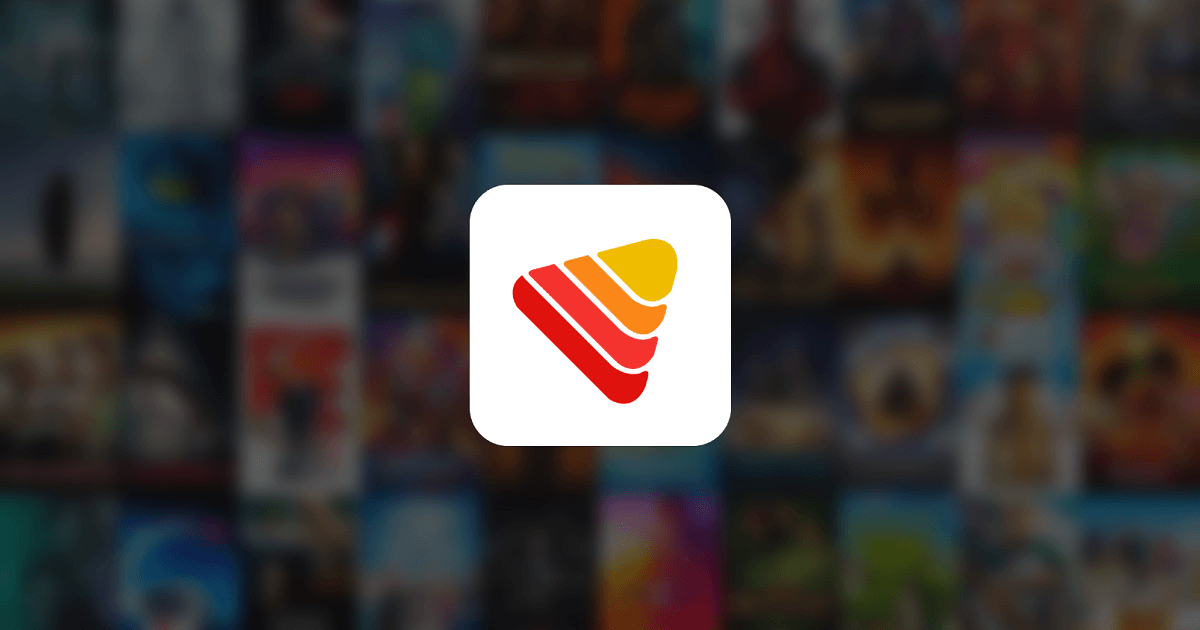
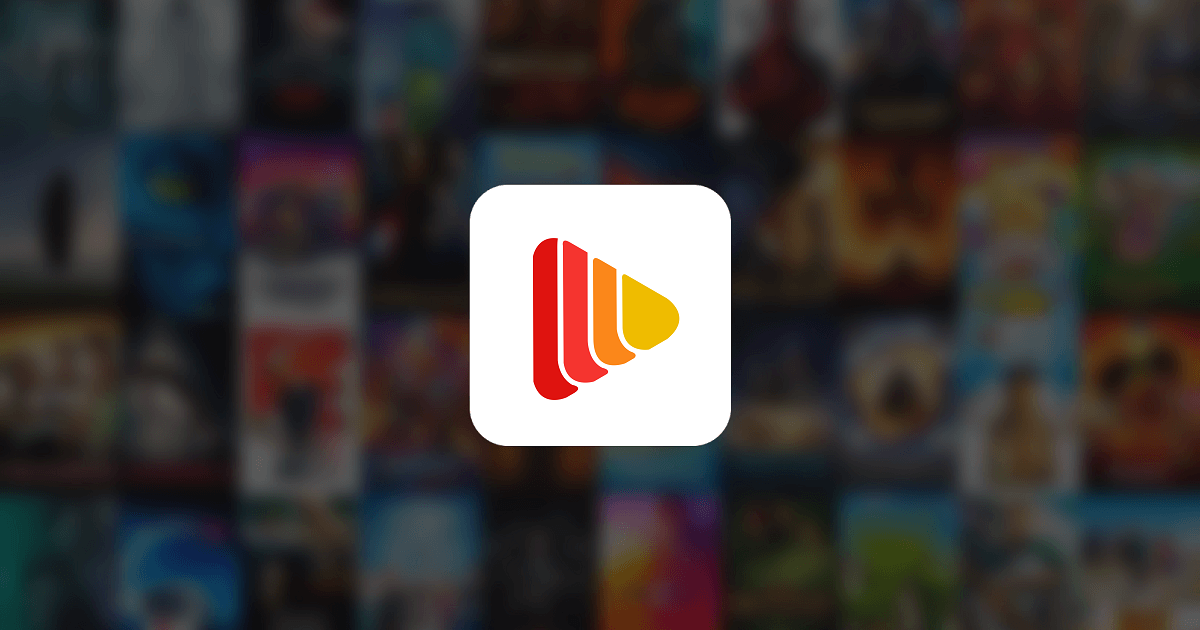
Update Assets

Changed region(s): [[0.4008, 0.3619, 0.5858, 0.6635]]

diff --git a/android/lib/components/home/home_logo.dart b/android/lib/components/home/home_logo.dart
@@ -11,7 +11,7 @@ class HomeLogo extends StatelessWidget {
       child: Column(
         mainAxisAlignment: MainAxisAlignment.center,
         children: [
-          Image(image: AssetImage('assets/logo.png'), width: 150),
+          Image(image: AssetImage('assets/icon.png'), width: 150),
           const SizedBox(height: 50),
           const CircularProgressIndicator(),
         ],
